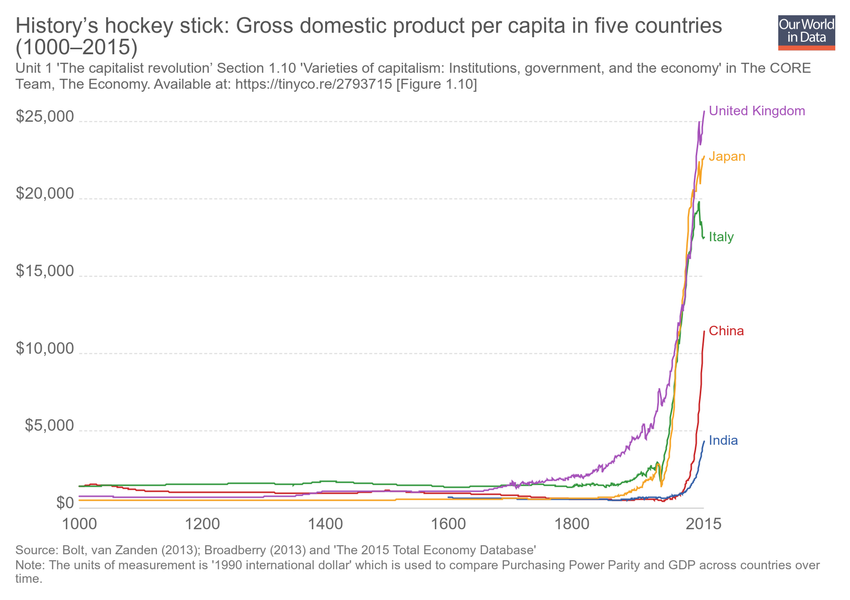
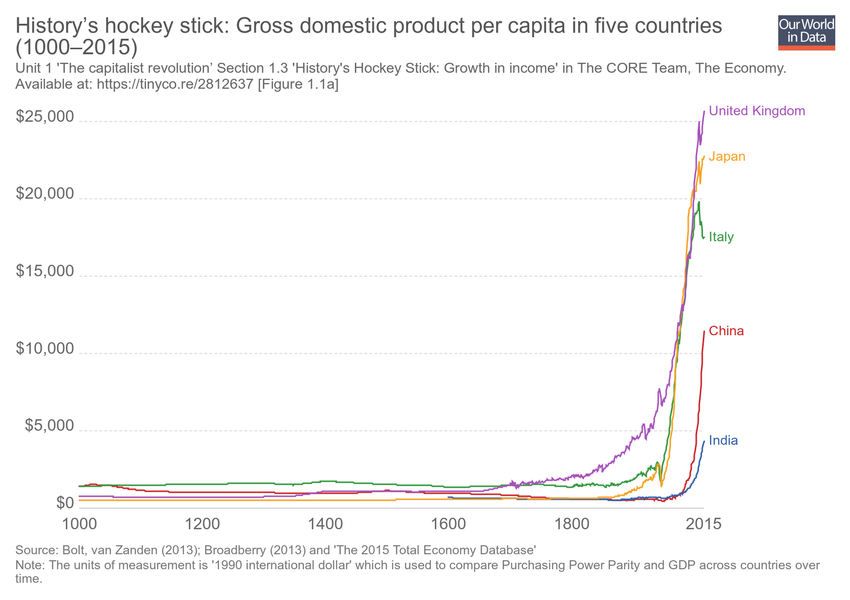
Updating chart historys-hockey-stick-gross-domestic-product-per-capita-in-five-countries

Changed region(s): [[0.0, 0.09, 0.9482, 0.15]]

diff --git a/grapher/historys-hockey-stick-gross-domestic-product-per-capita-in-five-countries.html b/grapher/historys-hockey-stick-gross-domestic-product-per-capita-in-five-countries.html
@@ -1,4 +1,4 @@
-<!doctype html><html><head><meta name="viewport" content="width=device-width, initial-scale=1" /><title>History’s hockey stick: Gross domestic product per capita in five countries (1000–2015) - Our World in Data</title><meta name="description" content="Unit 1 'The capitalist revolution’ Section 1.10 'Varieties of capitalism: Institutions, government, and the economy' in The CORE Team, The Economy. Available at: https://tinyco.re/2793715 [Figure 1.10]" /><link rel="canonical" href="https://ourworldindata.org/grapher/historys-hockey-stick-gross-domestic-product-per-capita-in-five-countries" /><meta property="fb:app_id" content="1149943818390250" /><meta property="og:url" content="https://ourworldindata.org/grapher/historys-hockey-stick-gross-domestic-product-per-capita-in-five-countries" /><meta property="og:title" content="History’s hockey stick: Gross domestic product per capita in five countries (1000–2015)" /><meta property="og:description" content="Unit 1 'The capitalist revolution’ Section 1.10 'Varieties of capitalism: Institutions, government, and the economy' in The CORE Team, The Economy. Available at: https://tinyco.re/2793715 [Figure 1.10]" /><meta property="og:image" content="https://ourworldindata.org/grapher/exports/historys-hockey-stick-gross-domestic-product-per-capita-in-five-countries.png?v=13" /><meta property="og:image:width" content="850" /><meta property="og:image:height" content="600" /><meta property="og:site_name" content="Our World in Data" /><meta name="twitter:card" content="summary_large_image" /><meta name="twitter:site" content="@OurWorldInData" /><meta name="twitter:creator" content="@OurWorldInData" /><meta name="twitter:title" content="History’s hockey stick: Gross domestic product per capita in five countries (1000–2015)" /><meta name="twitter:description" content="Unit 1 'The capitalist revolution’ Section 1.10 'Varieties of capitalism: Institutions, government, and the economy' in The CORE Team, The Economy. Available at: https://tinyco.re/2793715 [Figure 1.10]" /><meta name="twitter:image" content="https://ourworldindata.org/grapher/exports/historys-hockey-stick-gross-domestic-product-per-capita-in-five-countries.png?v=13" /><style>
+<!doctype html><html><head><meta name="viewport" content="width=device-width, initial-scale=1" /><title>History’s hockey stick: Gross domestic product per capita in five countries (1000–2015) - Our World in Data</title><meta name="description" content="Unit 1 'The capitalist revolution’ Section 1.3 'History's Hockey Stick: Growth in income' in The CORE Team, The Economy. Available at: https://tinyco.re/2812637 [Figure 1.1a]" /><link rel="canonical" href="https://ourworldindata.org/grapher/historys-hockey-stick-gross-domestic-product-per-capita-in-five-countries" /><meta property="fb:app_id" content="1149943818390250" /><meta property="og:url" content="https://ourworldindata.org/grapher/historys-hockey-stick-gross-domestic-product-per-capita-in-five-countries" /><meta property="og:title" content="History’s hockey stick: Gross domestic product per capita in five countries (1000–2015)" /><meta property="og:description" content="Unit 1 'The capitalist revolution’ Section 1.3 'History's Hockey Stick: Growth in income' in The CORE Team, The Economy. Available at: https://tinyco.re/2812637 [Figure 1.1a]" /><meta property="og:image" content="https://ourworldindata.org/grapher/exports/historys-hockey-stick-gross-domestic-product-per-capita-in-five-countries.png?v=14" /><meta property="og:image:width" content="850" /><meta property="og:image:height" content="600" /><meta property="og:site_name" content="Our World in Data" /><meta name="twitter:card" content="summary_large_image" /><meta name="twitter:site" content="@OurWorldInData" /><meta name="twitter:creator" content="@OurWorldInData" /><meta name="twitter:title" content="History’s hockey stick: Gross domestic product per capita in five countries (1000–2015)" /><meta name="twitter:description" content="Unit 1 'The capitalist revolution’ Section 1.3 'History's Hockey Stick: Growth in income' in The CORE Team, The Economy. Available at: https://tinyco.re/2812637 [Figure 1.1a]" /><meta name="twitter:image" content="https://ourworldindata.org/grapher/exports/historys-hockey-stick-gross-domestic-product-per-capita-in-five-countries.png?v=14" /><style>
         html, body {
             height: 100%;
             margin: 0;
@@ -20,8 +20,8 @@
         }
     </style><noscript><style>
                     figure { display: none !important; }
-                </style></noscript><link rel="stylesheet" href="https://ourworldindata.org/grapher/assets/commons.bundle.397229a8467cf53bfc99.css" /><link rel="preload" href="/grapher/data/variables/97935.json?v=13" as="fetch" crossorigin /></head><body class="singleChart"><figure data-grapher-src="/grapher/historys-hockey-stick-gross-domestic-product-per-capita-in-five-countries"></figure><noscript id="fallback"><img src="/grapher/exports/historys-hockey-stick-gross-domestic-product-per-capita-in-five-countries.svg" /><p>Interactive visualization requires JavaScript</p></noscript><script src="https://cdn.polyfill.io/v2/polyfill.min.js?features=es6,fetch"></script><script src="https://ourworldindata.org/grapher/assets/commons.bundle.397229a8467cf53bfc99.js"></script><script src="https://ourworldindata.org/grapher/assets/charts.bundle.397229a8467cf53bfc99.js"></script><script>
-        var jsonConfig = {"id":3007,"map":{"projection":"World","targetYear":2015,"variableId":97935,"colorSchemeLabels":[],"colorSchemeValues":[],"customNumericColors":[],"customCategoryColors":{},"customCategoryLabels":{},"customHiddenCategories":{}},"tab":"chart","note":"The units of measurement is '1990 international dollar' which is used to compare Purchasing Power Parity and GDP across countries over time.","slug":"historys-hockey-stick-gross-domestic-product-per-capita-in-five-countries","type":"LineChart","title":"History’s hockey stick: Gross domestic product per capita in five countries (1000–2015)","xAxis":{"scaleType":"linear"},"yAxis":{"min":0,"scaleType":"linear","canChangeScaleType":true},"version":13,"subtitle":"Unit 1 'The capitalist revolution’ Section 1.10 'Varieties of capitalism: Institutions, government, and the economy' in The CORE Team, The Economy. Available at: https://tinyco.re/2793715 [Figure 1.10]","hasMapTab":true,"stackMode":"absolute","dimensions":[{"display":{},"property":"y","variableId":97935}],"hasChartTab":true,"isPublished":true,"selectedData":[{"index":0,"entityId":171},{"index":0,"entityId":137},{"index":0,"entityId":8},{"index":0,"entityId":14},{"index":0,"entityId":1}],"internalNotes":"core-econ.org","addCountryMode":"add-country"};
+                </style></noscript><link rel="stylesheet" href="https://ourworldindata.org/grapher/assets/commons.bundle.397229a8467cf53bfc99.css" /><link rel="preload" href="/grapher/data/variables/97935.json?v=14" as="fetch" crossorigin /></head><body class="singleChart"><figure data-grapher-src="/grapher/historys-hockey-stick-gross-domestic-product-per-capita-in-five-countries"></figure><noscript id="fallback"><img src="/grapher/exports/historys-hockey-stick-gross-domestic-product-per-capita-in-five-countries.svg" /><p>Interactive visualization requires JavaScript</p></noscript><script src="https://cdn.polyfill.io/v2/polyfill.min.js?features=es6,fetch"></script><script src="https://ourworldindata.org/grapher/assets/commons.bundle.397229a8467cf53bfc99.js"></script><script src="https://ourworldindata.org/grapher/assets/charts.bundle.397229a8467cf53bfc99.js"></script><script>
+        var jsonConfig = {"id":3007,"map":{"projection":"World","targetYear":2015,"variableId":97935,"colorSchemeLabels":[],"colorSchemeValues":[],"customNumericColors":[],"customCategoryColors":{},"customCategoryLabels":{},"customHiddenCategories":{}},"tab":"chart","note":"The units of measurement is '1990 international dollar' which is used to compare Purchasing Power Parity and GDP across countries over time.","slug":"historys-hockey-stick-gross-domestic-product-per-capita-in-five-countries","type":"LineChart","title":"History’s hockey stick: Gross domestic product per capita in five countries (1000–2015)","xAxis":{"scaleType":"linear"},"yAxis":{"min":0,"scaleType":"linear","canChangeScaleType":true},"version":14,"subtitle":"Unit 1 'The capitalist revolution’ Section 1.3 'History's Hockey Stick: Growth in income' in The CORE Team, The Economy. Available at: https://tinyco.re/2812637 [Figure 1.1a]","hasMapTab":true,"stackMode":"absolute","dimensions":[{"display":{},"property":"y","variableId":97935}],"hasChartTab":true,"isPublished":true,"selectedData":[{"index":0,"entityId":171},{"index":0,"entityId":137},{"index":0,"entityId":8},{"index":0,"entityId":14},{"index":0,"entityId":1}],"internalNotes":"core-econ.org","addCountryMode":"add-country"};
         var figure = document.getElementsByTagName("figure")[0];
         try {
             window.App = {};
